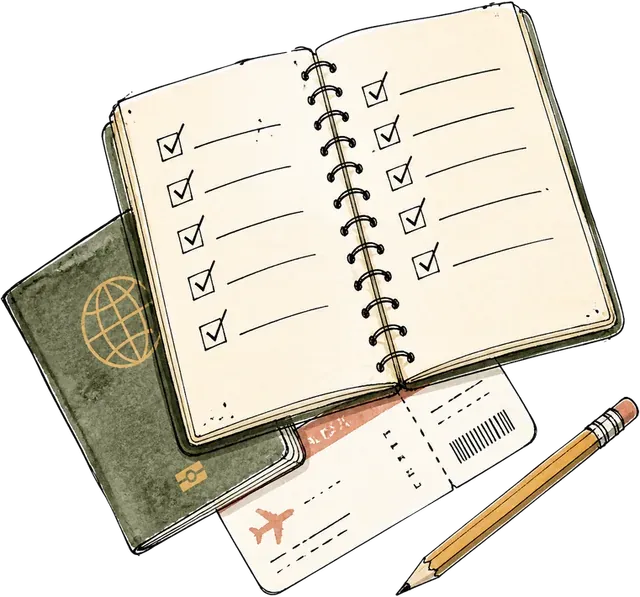
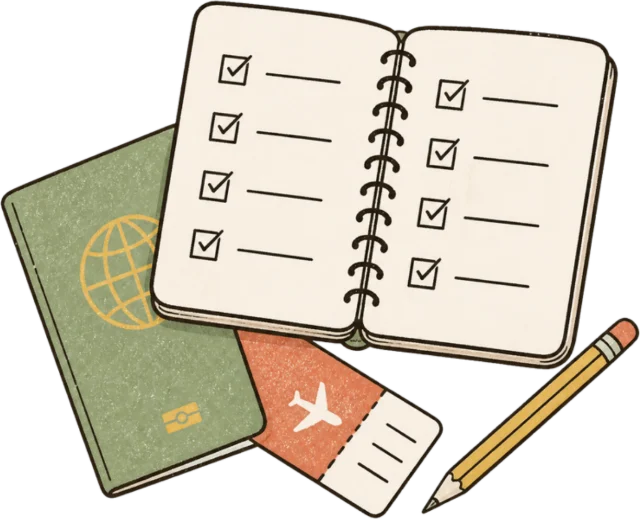
Redraw the app's pictures in the style of the hesent.me globe and traveller
The eleven object pictures were fine watercolour and didn't sit with the
site's bold-outline, flat-colour drawings. They're redrawn with the same
subjects, and the iPhone heights adjusted so each keeps its width.
The praying traveller is gone from the Prayer screen.

diff --git a/missions/app/ios/OnMission/Shared/Views/VaultView.swift b/missions/app/ios/OnMission/Shared/Views/VaultView.swift
@@ -152,7 +152,7 @@ struct VaultPage: View {
                 .transition(.opacity)
                 .rise(2)
                 .at(24, 292)
-            Picture(.vault, height: 180).rise(3).at(208, 118)
+            Picture(.vault, height: 164).rise(3).at(208, 118)
             AllInStamp(play: stampPlay)
                 .opacity(allIn ? 1 : 0)
                 .at(206 + 124 - 36, 116 + 192 - 36)
@@ -299,7 +299,7 @@ struct DocumentsPage: View {
             Hand("Every paper").rise(0).at(24, 106)
             Lines("\(docs.count)", .disp(184), lineHeight: 0.78).rise(1).at(18, 136)
             CapLine(soon > 0 ? "\(soon) expiring\nsoon" : "\(docs.filter(\.hasFile).count) with a file").rise(2).at(24, 292)
-            Picture(.vault, height: 180).rise(3).at(208, 118)
+            Picture(.vault, height: 164).rise(3).at(208, 118)
         } sheet: {
             if docs.count > 6 {
                 SearchField(text: $search, prompt: "Search \(docs.count) papers")

diff --git a/missions/app/ios/OnMission/Shared/Views/MoneyViews.swift b/missions/app/ios/OnMission/Shared/Views/MoneyViews.swift
@@ -59,7 +59,7 @@ struct BudgetPage: View {
             }
             .id(mode)
             .transition(.asymmetric(insertion: .offset(y: 14).combined(with: .opacity), removal: .offset(y: -14).combined(with: .opacity)))
-            Picture(.budget, height: 156).rise(3).at(228, 208)
+            Picture(.budget, height: 132).rise(3).at(228, 208)
         } sheet: {
             Segments(items: segments, selection: $mode)
             SheetScroll {
@@ -343,7 +343,7 @@ struct SellingPage: View {
                 .rise(1)
                 .at(20, 140)
             CapLine("Sold so far\n\(listed) \(listed == 1 ? "thing" : "things") listed").rise(2).at(24, 252)
-            Picture(.selling, height: 129).rise(3).at(224, 196)
+            Picture(.selling, height: 121).rise(3).at(224, 196)
         } sheet: {
             SheetScroll {
                 SectionHeader("On the market", count: market.count)

diff --git a/missions/app/ios/OnMission/Shared/Views/PartnersView.swift b/missions/app/ios/OnMission/Shared/Views/PartnersView.swift
@@ -138,7 +138,7 @@ struct PeopleView: View {
             CapLine("of \(euros(settings.supportTargetMonthlyCents)) a month · \(Int((fraction * 100).rounded()))%", size: 18)
                 .rise(2).at(24, 238)
             // What friends give: letters, a coffee, flowers, a heart. Not a trail to climb.
-            Picture(.people, height: 153).rise(3).at(214, 236)
+            Picture(.people, height: 163).rise(3).at(214, 236)
         } sheet: {
             SheetScroll {
                 HStack(spacing: 8) {
@@ -357,7 +357,7 @@ struct PartnerPage: View {
                 .frame(width: 350, alignment: .leading)
                 .rise(1)
                 .at(20, 140)
-            Picture(.partner, height: 128).rise(3).at(256, 250)
+            Picture(.partner, height: 137).rise(3).at(256, 250)
         } sheet: {
             SheetScroll { sheet }
         }

diff --git a/missions/app/ios/OnMission/Shared/Design/Tokens.swift b/missions/app/ios/OnMission/Shared/Design/Tokens.swift
@@ -299,12 +299,11 @@ enum Illustration: String {
     case travellerWalk = "traveller-walk"
     case travellerRead = "traveller-read"
     case travellerWrite = "traveller-write"
-    case travellerPray = "traveller-pray"
     case travellerPhoto = "traveller-photo"
     case travellerWave = "traveller-wave"
     case mountains
     case flowerPink = "flower-pink"
-    // Made in Canva for the pages that had none, in the same sketchbook style.
+    // Made in Canva for the pages that had none, drawn after the hesent.me globe and traveller.
     case tasks, people, partner, checklists, vault, packing, budget, selling, notes, guides, contacts
 }
 

diff --git a/missions/app/ios/OnMission/Shared/Views/ContactsView.swift b/missions/app/ios/OnMission/Shared/Views/ContactsView.swift
@@ -19,7 +19,7 @@ struct ContactsPage: View {
             Hand("Who to call").rise(0).at(24, 106)
             Lines("\(contacts.count)", .disp(184), lineHeight: 0.78).rise(1).at(18, 136)
             CapLine("Offices and people\nto reach").rise(2).at(24, 292)
-            Picture(.contacts, height: 140).rise(3).at(228, 146)
+            Picture(.contacts, height: 157).rise(3).at(228, 146)
         } sheet: {
             if contacts.count > 6 {
                 SearchField(text: $search, prompt: "Search \(contacts.count) contacts")

diff --git a/missions/app/ios/OnMission/Shared/Views/GuidesView.swift b/missions/app/ios/OnMission/Shared/Views/GuidesView.swift
@@ -51,7 +51,7 @@ struct GuidesView: View {
             Hand("Read before you go").rise(0).at(24, 106)
             Lines("\(all.count)", .disp(184), lineHeight: 0.78).rise(1).at(18, 136)
             CapLine("Guides\n\(read) read so far").rise(2).at(24, 292)
-            Picture(.guides, height: 130).rise(3).at(192, 146)
+            Picture(.guides, height: 112).rise(3).at(192, 146)
         } sheet: {
             SheetScroll {
                 SectionHeader("Guides", count: all.count)

diff --git a/missions/app/ios/OnMission/Shared/Views/ChecklistsView.swift b/missions/app/ios/OnMission/Shared/Views/ChecklistsView.swift
@@ -69,7 +69,7 @@ struct ChecklistsPage: View {
                 .rise(1)
                 .at(18, 136)
             CapLine("Things left\non \(active.count) list\(active.count == 1 ? "" : "s")").rise(2).at(24, 292)
-            Picture(.checklists, height: 164).rise(3).at(204, 116)
+            Picture(.checklists, height: 143).rise(3).at(204, 116)
         } sheet: {
             Segments(items: segments, selection: $stop, tight: true)
             SheetScroll {

diff --git a/missions/app/ios/OnMission/Shared/Views/PackingView.swift b/missions/app/ios/OnMission/Shared/Views/PackingView.swift
@@ -113,7 +113,7 @@ struct PackingPage: View {
                 .animation(.easeOut(duration: 0.7), value: packedKg)
                 .rise(2)
                 .at(24, 272)
-            Picture(.packing, height: 160)
+            Picture(.packing, height: 142)
                 .pop(wobble, to: 1.04)
                 .rise(3)
                 .background {

diff --git a/missions/app/ios/OnMission/Shared/Views/HeartViews.swift b/missions/app/ios/OnMission/Shared/Views/HeartViews.swift
@@ -64,7 +64,6 @@ struct PrayerView: View {
             } else {
                 card(list[i], count: list.count).rise(1).at(24, 160)
             }
-            Picture(.travellerPray, height: 168).rise(3).at(4, 414)
             candle.at(135, 392)
             Hand("Amen.", size: 46, tilt: -9)
                 .scaleEffect(amen ? 1 : 0.6)
